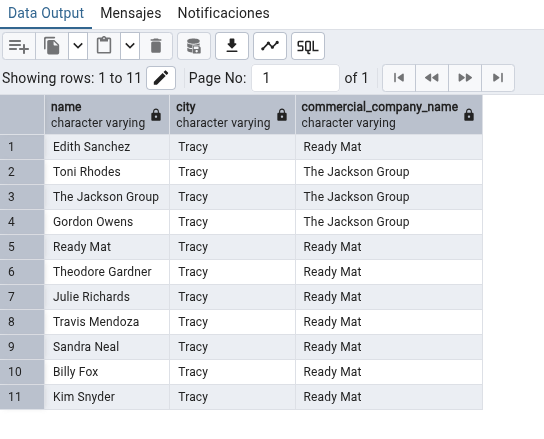
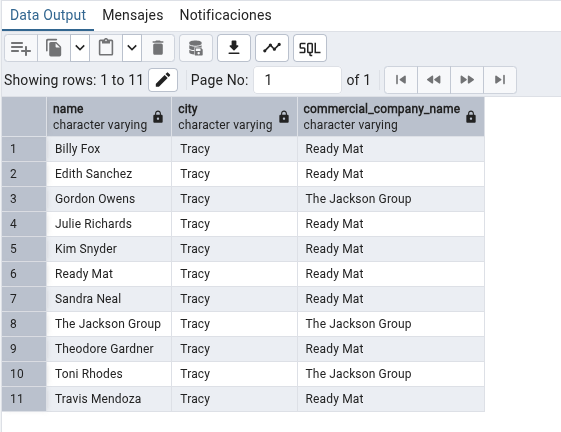
apartado 5-6

Changed region(s): [[0.0, 0.0, 0.9375, 0.963], [0.5, 0.9329, 0.5312, 0.963], [0.2812, 0.9329, 0.3125, 0.963]]

diff --git a/README.md b/README.md
@@ -40,12 +40,60 @@ Odoo (no empresas) con la siguiente información:`
 
 
 ```sql
-select "name", "city", "commercial_company_name" 
-from public.res_partner 
-where "city" = 'Tracy';
+select "name", "city", "commercial_company_name"
+from public.res_partner
+where "city" = 'Tracy'
+order by "name";
 ```
 ![IMG4](imgs/img4.png)
 
 ## Apartado 5
+`Utilizando las tablas de odoo, obtén un listado de empresas proveedoras, que han
+emitido algún reembolso (facturas recticativas de proveedor)`
+
+- Nombre de la empresa
+- Número de factura
+- Fecha de la factura
+- Total factura SIN impuestos
+
+```sql
+SELECT 
+    res_partner."name", 
+    account_move."name", 
+    account_move."invoice_date", 
+    account_move."amount_untaxed"
+FROM public.account_move
+JOIN public.res_partner ON account_move."partner_id" = res_partner."id"
+WHERE account_move."move_type" = 'in_refund'
+AND res_partner."is_company" = TRUE
+ORDER BY account_move."invoice_date" DESC;
+``` 
+![IMG5](imgs/img5.png)
+
+## Apartado 6
+`Utilizando las tablas de odoo, obtén un listado de empresas clientes, a las que se les
+ha emitido más de dos facturas de venta (solo venta) conrmadas, mostrando los
+siguientes datos:`
+
+- Nombre de la empresa
+- Número de facturas
+- Total facturado SIN IMPUESTOS
+
+```sql
+SELECT 
+    "invoice_partner_display_name", 
+    COUNT("id"), 
+    SUM("amount_untaxed")
+FROM public.account_move
+WHERE "move_type" = 'out_invoice'
+AND "state" = 'posted'
+GROUP BY "invoice_partner_display_name"
+HAVING COUNT("id") > 2
+ORDER BY SUM("amount_untaxed") DESC;
+```
+
+![IMG6](imgs/img6.png)
+
+
 
 
